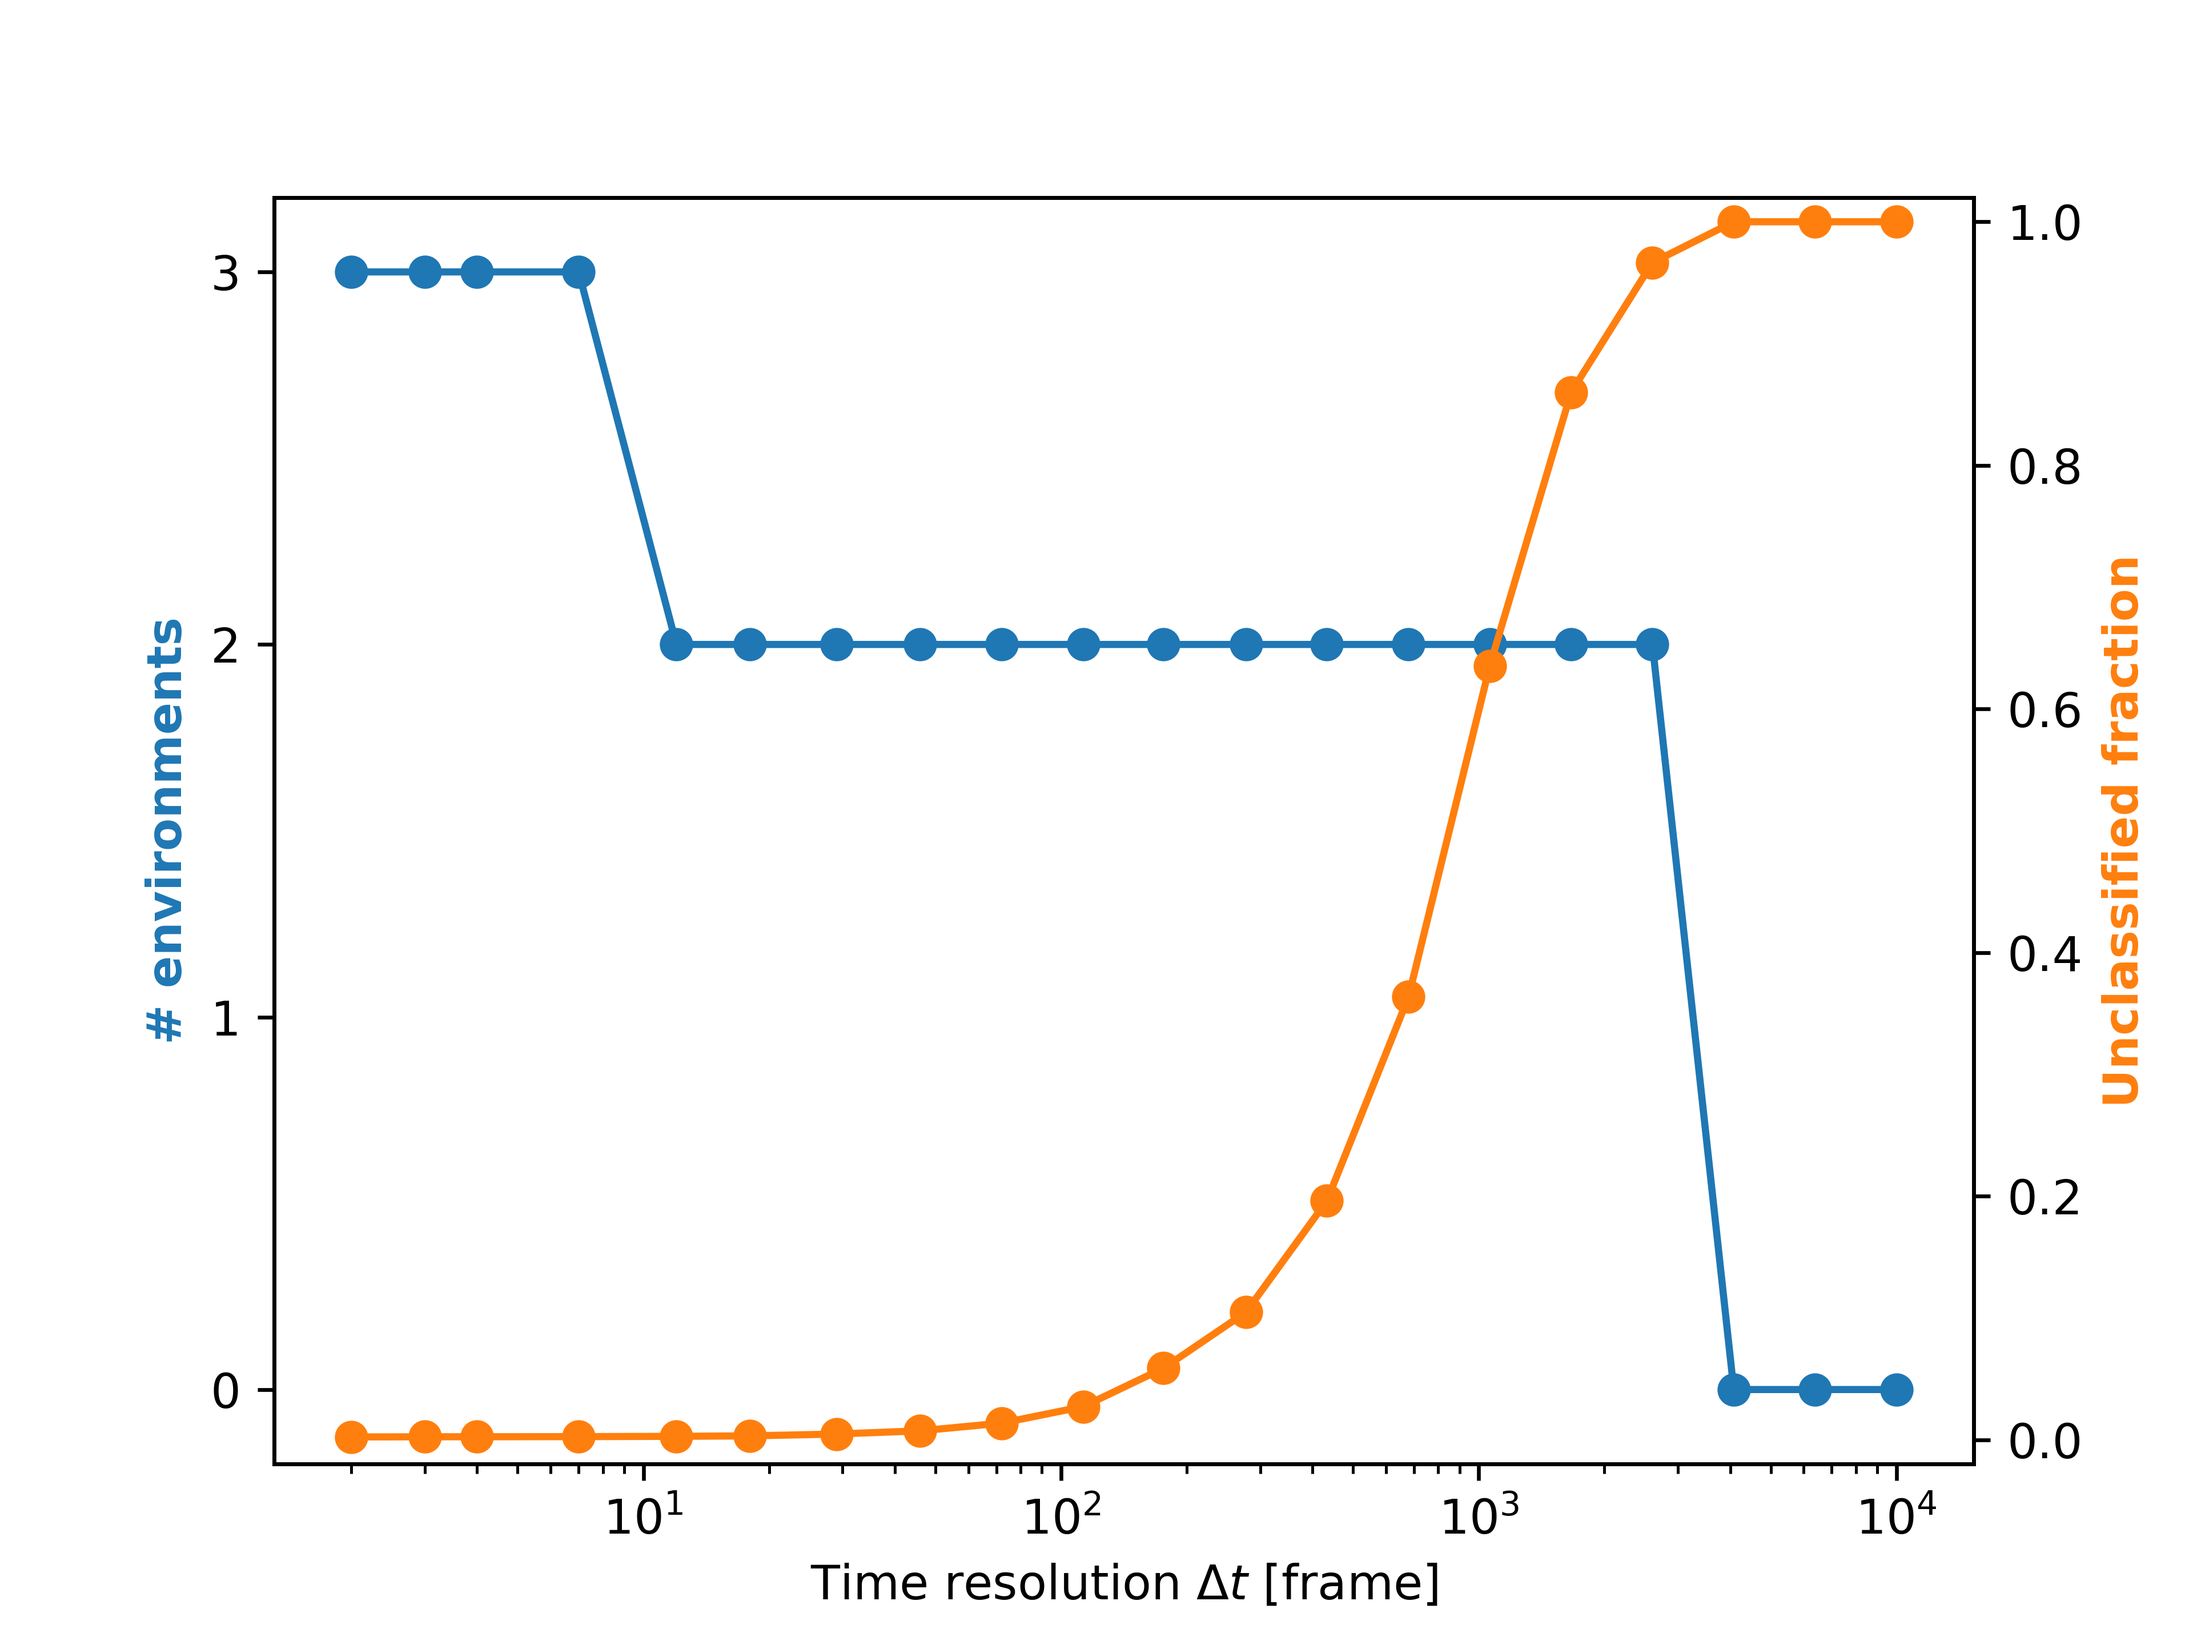
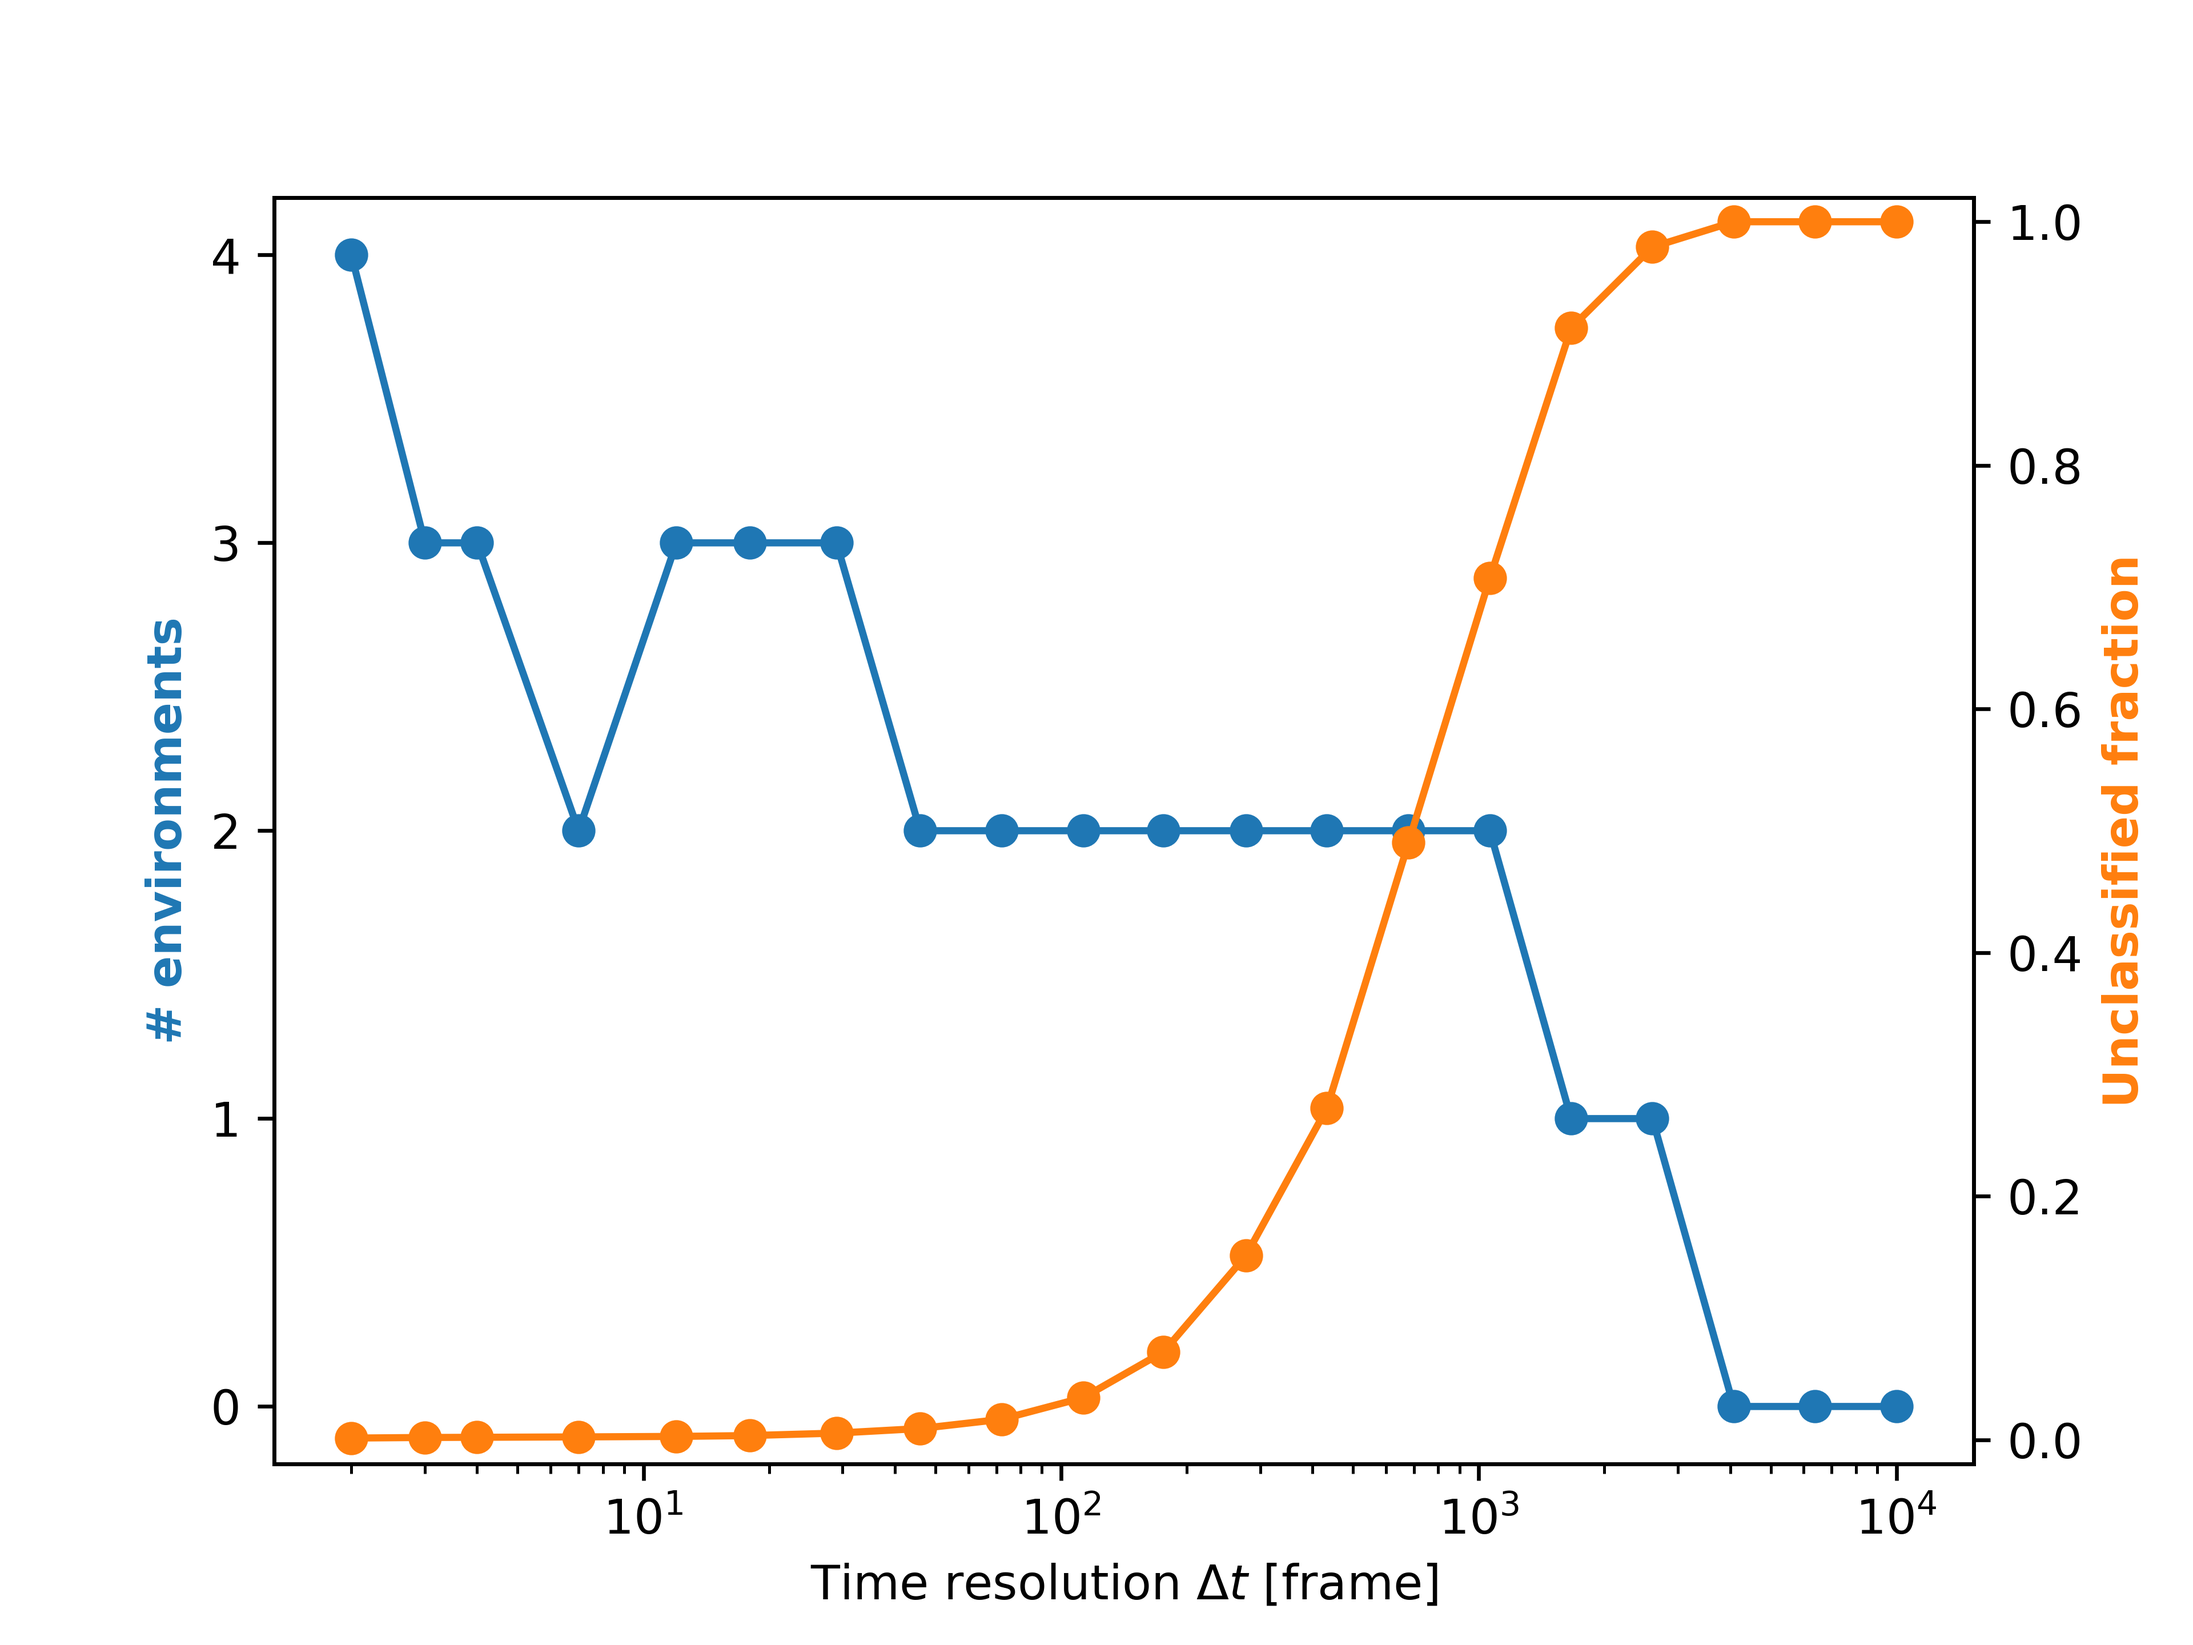
Example 1 updated.

diff --git a/examples/ex1_gaussian_states.py b/examples/ex1_gaussian_states.py
@@ -23,9 +23,10 @@ from pathlib import Path
 
 import matplotlib.pyplot as plt
 import numpy as np
+from tqdm import tqdm
 
 from tropea_clustering import OnionMultiSmooth, OnionUniSmooth
-from tropea_clustering.plot import (
+from tropea_clustering.plot_smooth import (
     plot_one_trj_multi,
     plot_one_trj_uni,
     plot_output_multi,
@@ -36,14 +37,32 @@ from tropea_clustering.plot import (
 )
 
 
+def gaussian_2d(x, y, mean, cov):
+    """Evaluate a 2D Gaussian (unnormalized) at point (x, y)."""
+    pos = np.array([x, y])
+    diff = pos - mean
+    inv_cov = np.linalg.inv(cov)
+    exponent = -0.5 * diff @ inv_cov @ diff
+    return np.exp(exponent)
+
+
 def energy_landscape(x: float, y: float) -> float:
     """A 2-dimensional potential energy landscape with 4 minima."""
-    sigma = 0.12  # Width of the Gaussian wells
-    gauss1 = np.exp(-(x**2 + y**2) / (2 * sigma**2))
-    gauss2 = np.exp(-((x - 1) ** 2 + y**2) / (2 * sigma**2))
-    gauss3 = np.exp(-(x**2 + (y - 1) ** 2) / (2 * sigma**2))
-    gauss4 = np.exp(-((x - 1) ** 2 + (y - 1) ** 2) / (2 * sigma**2))
-    return -np.log(gauss1 + gauss2 + gauss3 + gauss4 + 1e-6)
+    means = [
+        np.array([0.0, 0.0]),
+        np.array([1.0, 0.0]),
+        np.array([0.0, 1.0]),
+        np.array([1.0, 1.0]),
+    ]
+    covs = [
+        np.array([[0.03, 0.01], [0.01, 0.02]]),
+        np.array([[0.03, -0.005], [-0.005, 0.02]]),
+        np.array([[0.02, 0.01], [0.01, 0.03]]),
+        np.array([[0.03, -0.01], [-0.01, 0.03]]),
+    ]
+    gauss_sum = sum(gaussian_2d(x, y, m, c) for m, c in zip(means, covs))
+
+    return -np.log(gauss_sum + 1e-6)
 
 
 def numerical_gradient(
@@ -78,7 +97,7 @@ def create_trajectory(
     particles[3 * n_group :, 1] += 1
 
     trajectory = np.zeros((time_steps, n_atoms, 2))
-    for t in range(time_steps):
+    for t in tqdm(range(time_steps)):
         for i in range(n_atoms):
             x, y = particles[i]
             fx, fy = numerical_gradient(x, y)
@@ -118,59 +137,82 @@ def main():
     # Test OnionUni on a wide range of time resolutions
     data_1d = dataset[:, :, 0]
     results = np.zeros((delta_t_list.size, 3))
-    list_of_pops = []
+    list_of_pop = []
 
     for i, delta_t in enumerate(delta_t_list):
-        on_cl = OnionUniSmooth(delta_t)
-        on_cl.fit(data_1d)
-        state_list, labels = on_cl.state_list_, on_cl.labels_
-
+        on_cl = OnionUniSmooth(delta_t).fit(data_1d)
+        labels = on_cl.labels_
         results[i][0] = delta_t
-        results[i][1] = len(state_list)
+        results[i][1] = len(on_cl.state_list_)
         results[i][2] = np.sum(labels == -1) / labels.size
         pops = [np.sum(labels == j) / labels.size for j in np.unique(labels)]
-        list_of_pops.append(pops)
+        list_of_pop.append(pops)
 
-    plot_time_res_analysis(data_path / "Fig1.png", results)
-    plot_pop_fractions(data_path / "Fig2.png", list_of_pops, results)
+    plot_time_res_analysis(title=data_path / "Fig1.png", tra=results)
+    plot_pop_fractions(
+        title=data_path / "Fig2.png",
+        list_of_pop=list_of_pop,
+        tra=results,
+    )
 
     # Perform clustering at delta_t = 100 frames
-    on_cl = OnionUniSmooth(delta_t=100)
-    on_cl.fit(data_1d)
-    state_list, labels = on_cl.state_list_, on_cl.labels_
+    on_cl = OnionUniSmooth(delta_t=100).fit(data_1d)
 
-    plot_output_uni(data_path / "Fig3.png", data_1d, state_list)
-    plot_one_trj_uni(data_path / "Fig4.png", 10, data_1d, labels)
-    plot_state_populations(data_path / "Fig5.png", labels)
+    plot_output_uni(
+        title=data_path / "Fig3.png",
+        input_data=data_1d,
+        state_list=on_cl.state_list_,
+    )
+    plot_one_trj_uni(
+        title=data_path / "Fig4.png",
+        example_id=10,
+        input_data=data_1d,
+        labels=on_cl.labels_,
+    )
+    plot_state_populations(
+        title=data_path / "Fig5.png",
+        labels=on_cl.labels_,
+    )
 
     # Test OnionMulti on a wide range of time resolutions
     results = np.zeros((delta_t_list.size, 3))
-    list_of_pops = []
+    list_of_pop = []
 
     for i, delta_t in enumerate(delta_t_list):
-        on_cl = OnionMultiSmooth(delta_t)
-        on_cl.fit(dataset)
-        state_list, labels = on_cl.state_list_, on_cl.labels_
-
+        on_cl = OnionMultiSmooth(delta_t).fit(dataset)
+        labels = on_cl.labels_
         results[i][0] = delta_t
-        results[i][1] = len(state_list)
+        results[i][1] = len(on_cl.state_list_)
         results[i][2] = np.sum(labels == -1) / labels.size
         pops = [np.sum(labels == j) / labels.size for j in np.unique(labels)]
-        list_of_pops.append(pops)
+        list_of_pop.append(pops)
 
-    plot_time_res_analysis(data_path / "Fig6.png", results)
-    plot_pop_fractions(data_path / "Fig7.png", list_of_pops, results)
+    plot_time_res_analysis(title=data_path / "Fig6.png", tra=results)
+    plot_pop_fractions(
+        title=data_path / "Fig7.png",
+        list_of_pop=list_of_pop,
+        tra=results,
+    )
 
-    # Perform clustering at delta_t = 100 frames
-    on_cl = OnionMultiSmooth(delta_t=10)
-    on_cl.fit(dataset)
-    state_list, labels = on_cl.state_list_, on_cl.labels_
+    # Perform clustering at delta_t = 30 frames
+    on_cl = OnionMultiSmooth(delta_t=30).fit(dataset)
 
-    plot_output_multi(data_path / "Fig8.png", dataset, state_list, labels)
-    plot_one_trj_multi(data_path / "Fig9.png", 10, dataset, labels)
-    plot_state_populations(data_path / "Fig10.png", labels)
-
-    plt.show()
+    plot_output_multi(
+        title=data_path / "Fig8.png",
+        input_data=dataset,
+        state_list=on_cl.state_list_,
+        labels=on_cl.labels_,
+    )
+    plot_one_trj_multi(
+        title=data_path / "Fig9.png",
+        example_id=10,
+        input_data=dataset,
+        labels=on_cl.labels_,
+    )
+    plot_state_populations(
+        title=data_path / "Fig10.png",
+        labels=on_cl.labels_,
+    )
 
 
 if __name__ == "__main__":
